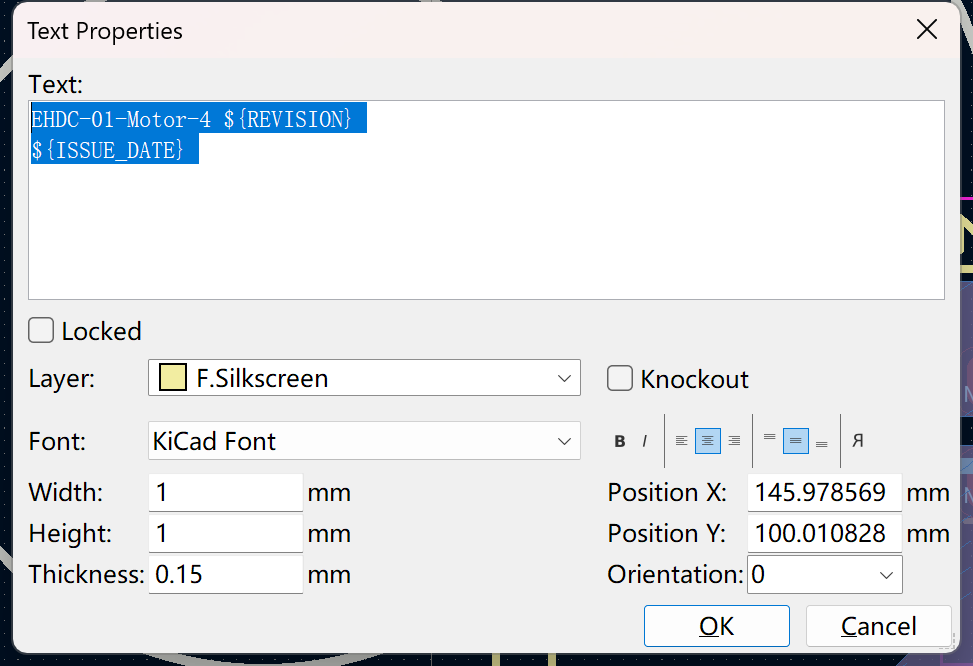
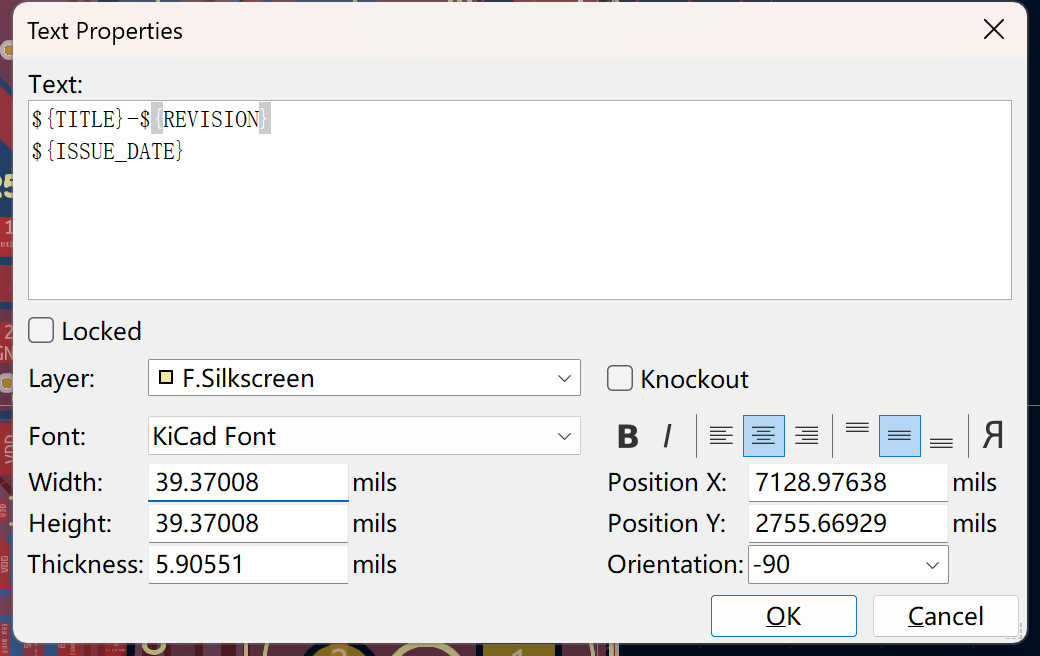
添加约束规则文档

Changed region(s): [[0.0, 0.0, 1.0, 1.0], [0.3083, 0.8537, 0.4008, 0.8841]]

diff --git a/docs/Hardware/Kicad设计规范.md b/docs/Hardware/Kicad设计规范.md
@@ -2,6 +2,8 @@
 
 ## PCB版本和日期丝印使用变量
 
+板子标题名称：`${TITLE}`
+
 版本的变量是：`${REVISION}`
 
 日期的变量是：`${ISSUE_DATE}`
@@ -39,3 +41,39 @@
 得到的结果向上取整，如上可以设置为15mil。一般取值是10mil、15mil、20mil等5的倍数。
 
 过孔一般使用24/12mil，即外径24mil，内孔直径12mil。
+
+## 约束规则
+
+原则上设计新的PCB板时需要导入库里默认的工程配置。
+
+![image](image/kicad-design-spec-custom-rule-3.png)
+
+两层板的默认配置工程目录如下：
+
+```
+Library\kicad_dr_2_m\kicad_dr_2_m.kicad_pcb
+```
+
+### 用户自定义规则
+
+如下定义了两个自定义规则，一个是`ic area`，间距为5.5mil，约束条件是所有在`ic_zone`约束区域内的除了铜皮之外的所有对象；另外一个是`ic area lsm6dsr`，约束间距是5.5mil，约束条件是所有在`ic_zone_lsm6dsr`约束区域内的所有对象。
+
+```
+(version 1)
+(rule "ic area"
+   (constraint clearance (min 5.5mil))
+   (condition "A.Type != 'zone' && A.insideArea('ic_zone')"))
+
+(rule "ic area lsm6dsr"
+   (constraint clearance (min 5.5mil))
+   (condition "A.insideArea('ic_zone_lsm6dsr')"))
+```
+
+![image](image/kicad-design-spec-custom-rule-2.png)
+
+当有部分IC不适用当前默认规则时（如引脚间距小于默认规则），可以定义自定义规则，然后在IC区域画一个约束区域，并给约束区域设置一个名称，名称需要与自定义规则中区域名称对应。
+
+![image](image/kicad-design-spec-custom-rule-1.png)
+
+## PCB封装设计规范
+
